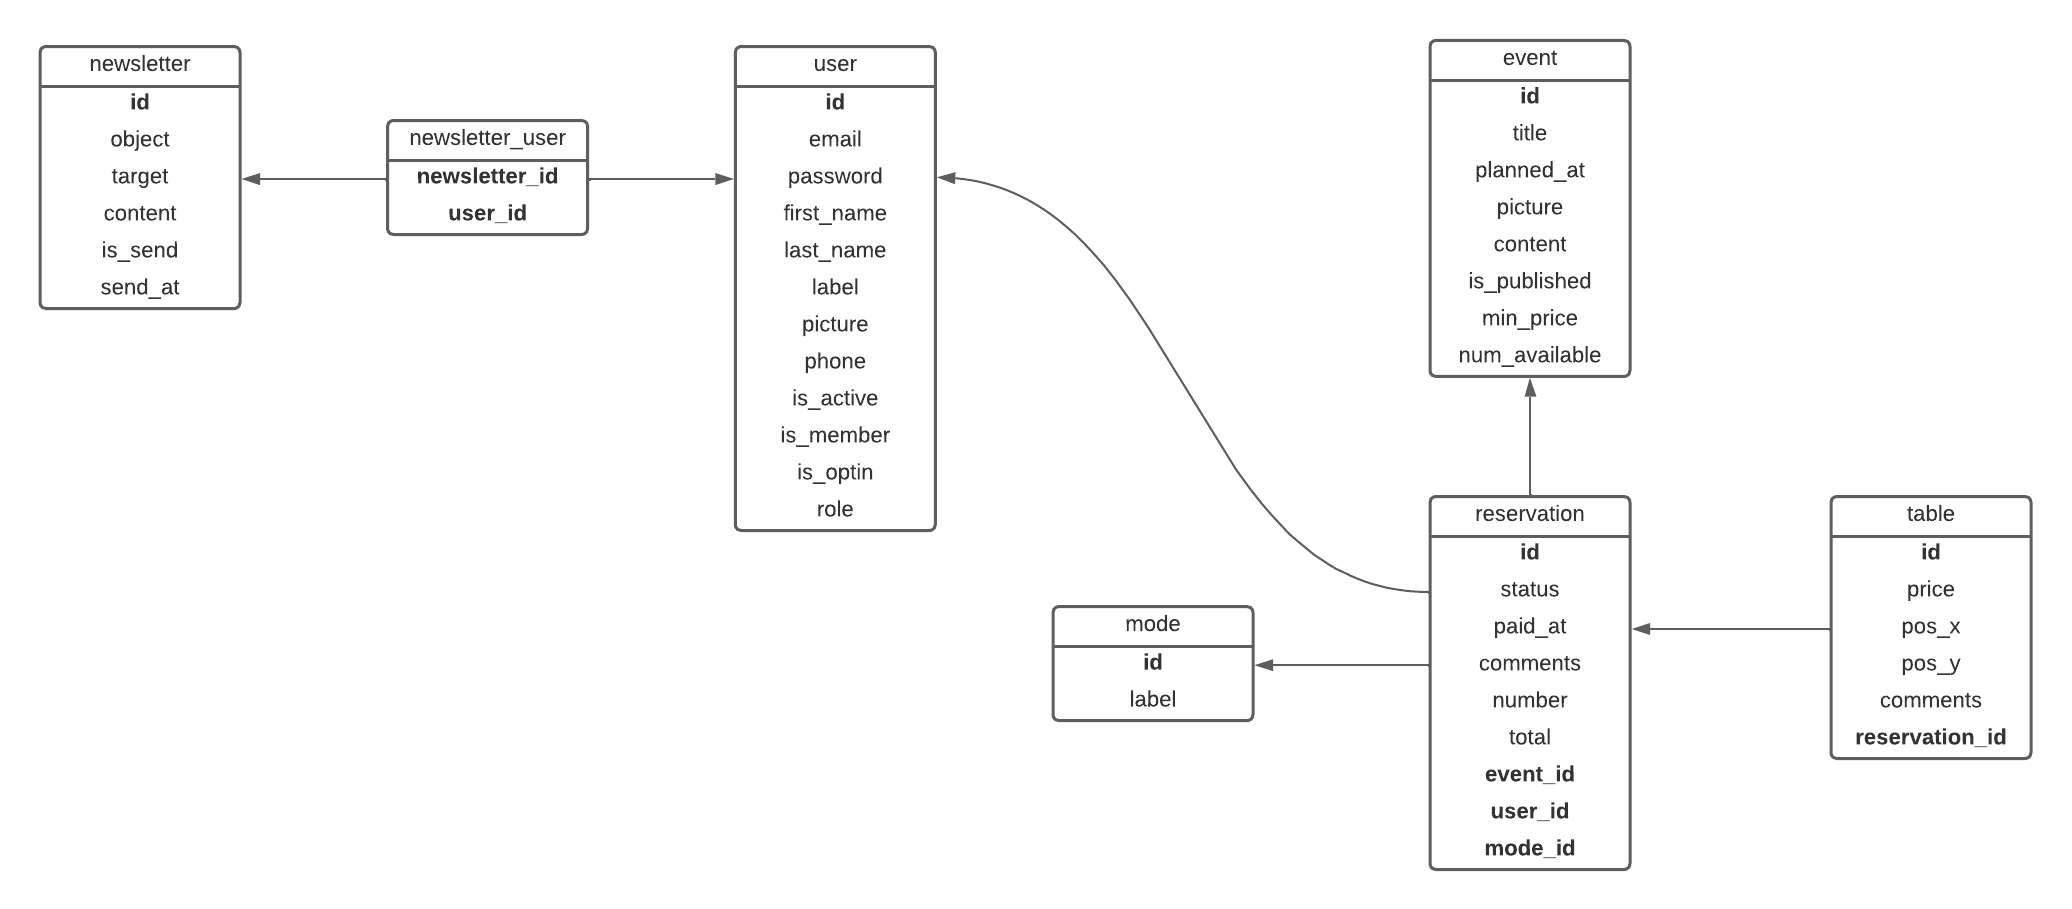
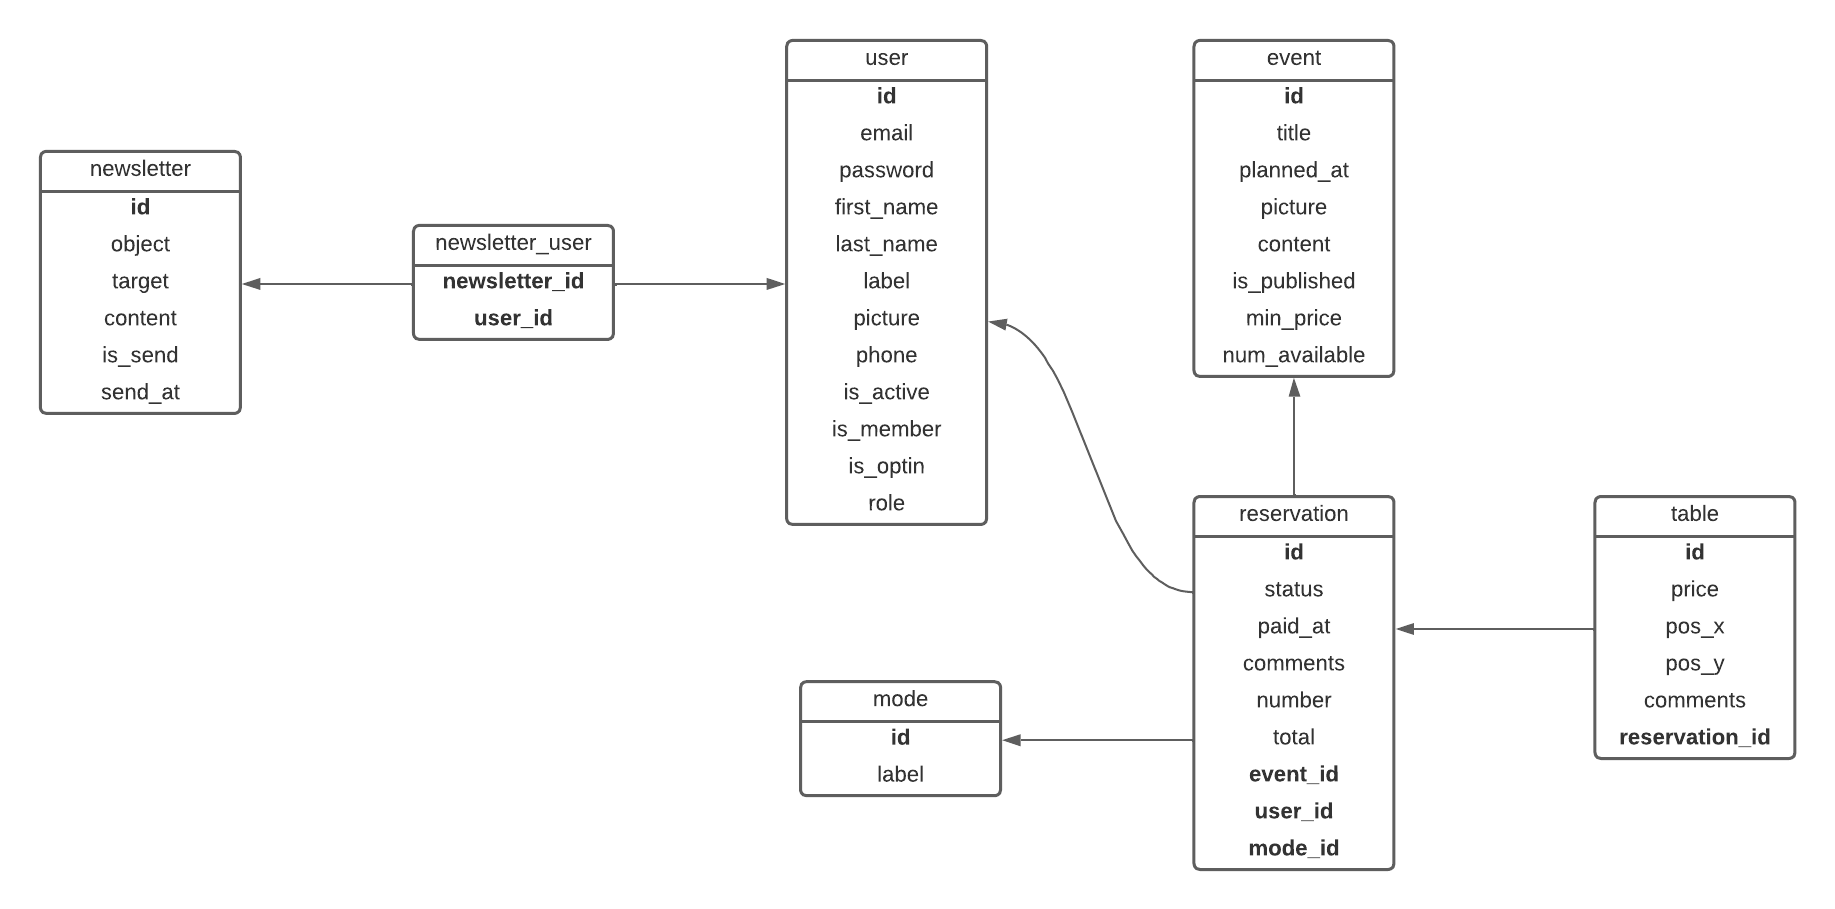
MAJ Nv MPD

diff --git a/docs/base-donnees.md b/docs/base-donnees.md
@@ -19,9 +19,8 @@
 - newsletter (**id**, object, target, content, is_send, send_at)
 - newsletter_user (**#newsletter_id, #user_id**)
 - user (**id**, email, password, first_name, last_name, label, picture, phone, is_active, is_member, is_optin, role)
-- user_event (**#user_id, #event_id**)
 - event (**id**, title, planned_at, picture, content, min_price, num_available)
-- reservation (**id**, status, paid_at, comments, **#event_id**, **#mode_id**)
+- reservation (**id**, status, paid_at, comments, **#event_id**, **#user_id**, **#mode_id**)
 - mode (**id**, label)
 - table (**id**, price, pos_x, pos_y, comments, **#reservation_id**)
 
@@ -65,7 +64,7 @@ nom|description|type|règle
 **picture**|l'image d'illustration de l'événement|blob|optionnel
 **content**|la description de l'événement|texte|requis
 **is_published**|l'événement est annoncé sur le site|booléen|0 par défaut
-**min_price**|le prix de base par table|décimal (5,2)|0 par défaut
+**min_price**|le prix de base par table (en €)|décimal (5,2)|0 par défaut
 **num_available**|le nombre de tables disponibles|entier (3)|0 par défaut
 
 ### Reservation - Les réservations
@@ -76,6 +75,8 @@ nom|description|type|règle
 **status**|le statut de paiement ("A Payer", "Payé", "Annulé")|chaîne (20)|"A Payer" par défaut
 **paid_at**|la date de paiement (JJ/MM/AAAA)|date|date du jour par défaut
 **comments**|les commentaires de la réservation|texte|optionnel
+**number**|le nombre de tables de la réservation|entier(2)|calculé lors de la définition des tables
+**total**|la somme totale réglée de la réservation (en €)|décimal (5,2)|calculé lors de la définition des tables
 
 ### Mode - Les modes de paiement
 
@@ -102,11 +103,11 @@ Un utilisateur peut envoyer plusieurs newsletters. (**0,n**)
 
 Une newsletter est envoyée à au moins un utilisateur. (**1,n**)
 
-### User (0,n) - Event (0,n)
+### User (0,n) - Reservation (1,1)
 
-Un utilisateur peut s'inscrire à plusieurs événements. (**0,n**)
+Un utilisateur peut faire plusieurs réservations. (**0,n**)
 
-Un événement peut accueillir plusieurs exposants. (**0,n**)
+Une réservation concerne un seul utilisateur. (**1,1**)
 
 ### Mode (0,n) - (1,1) Reservation
 
